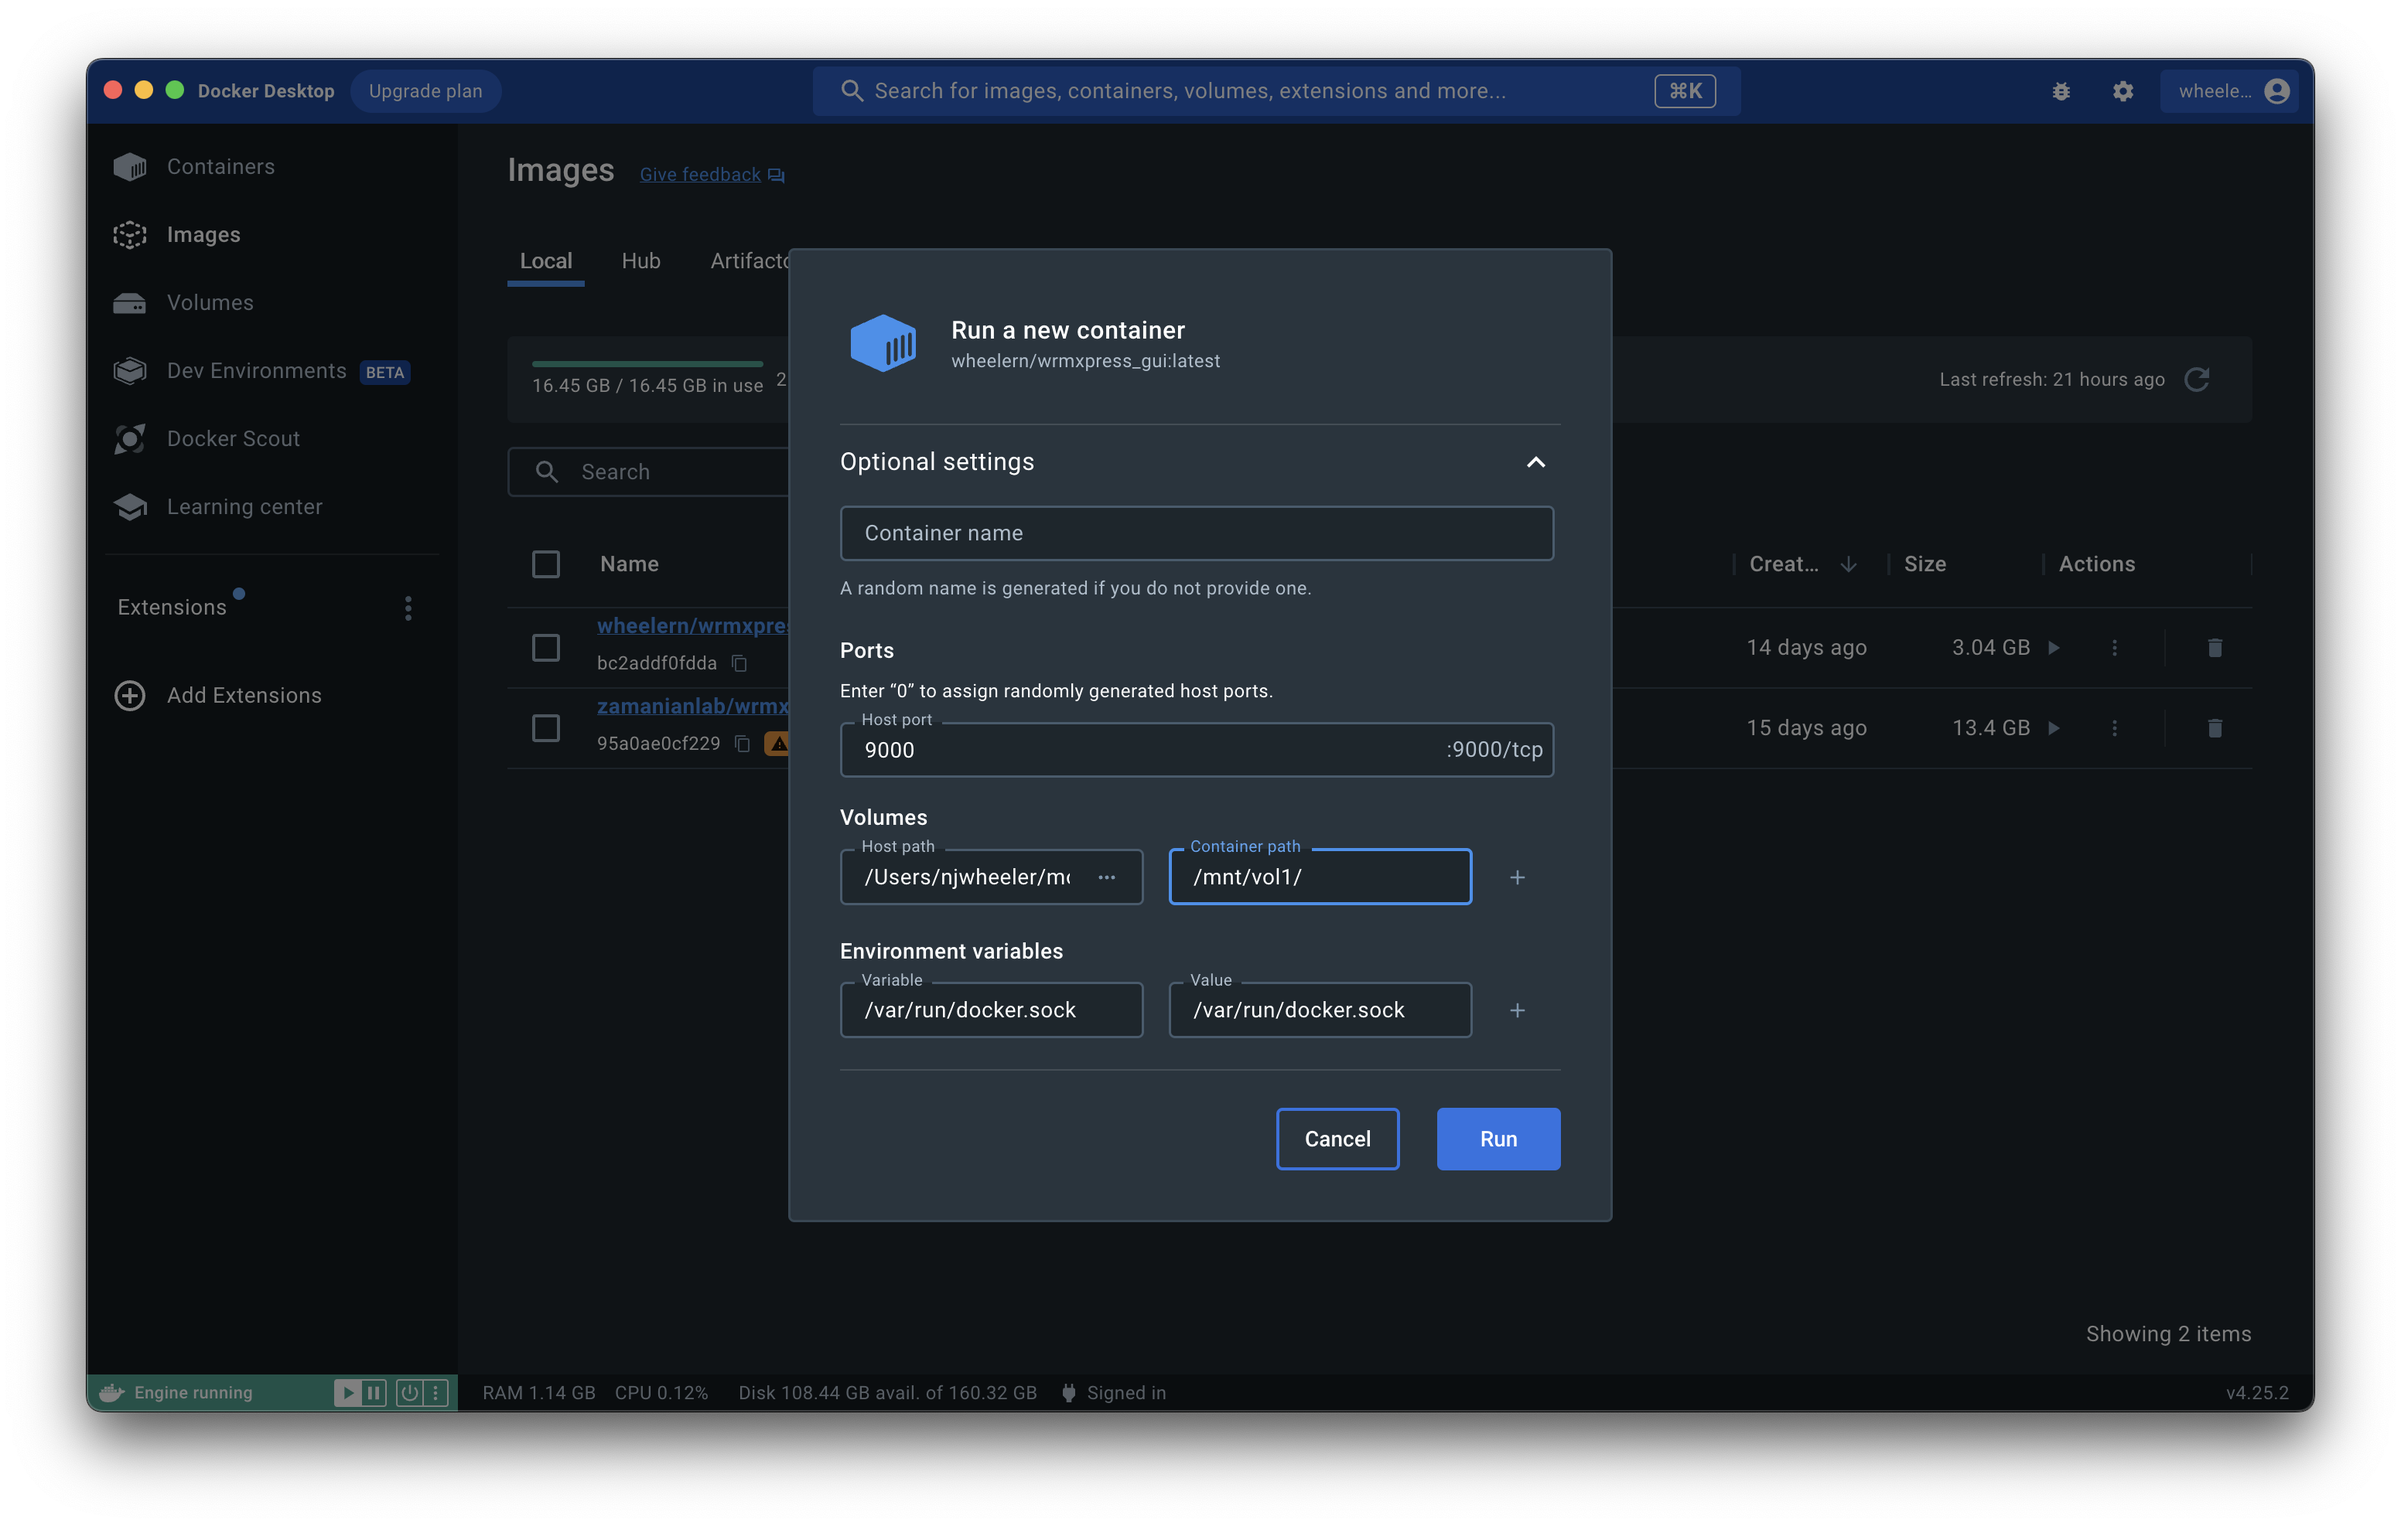
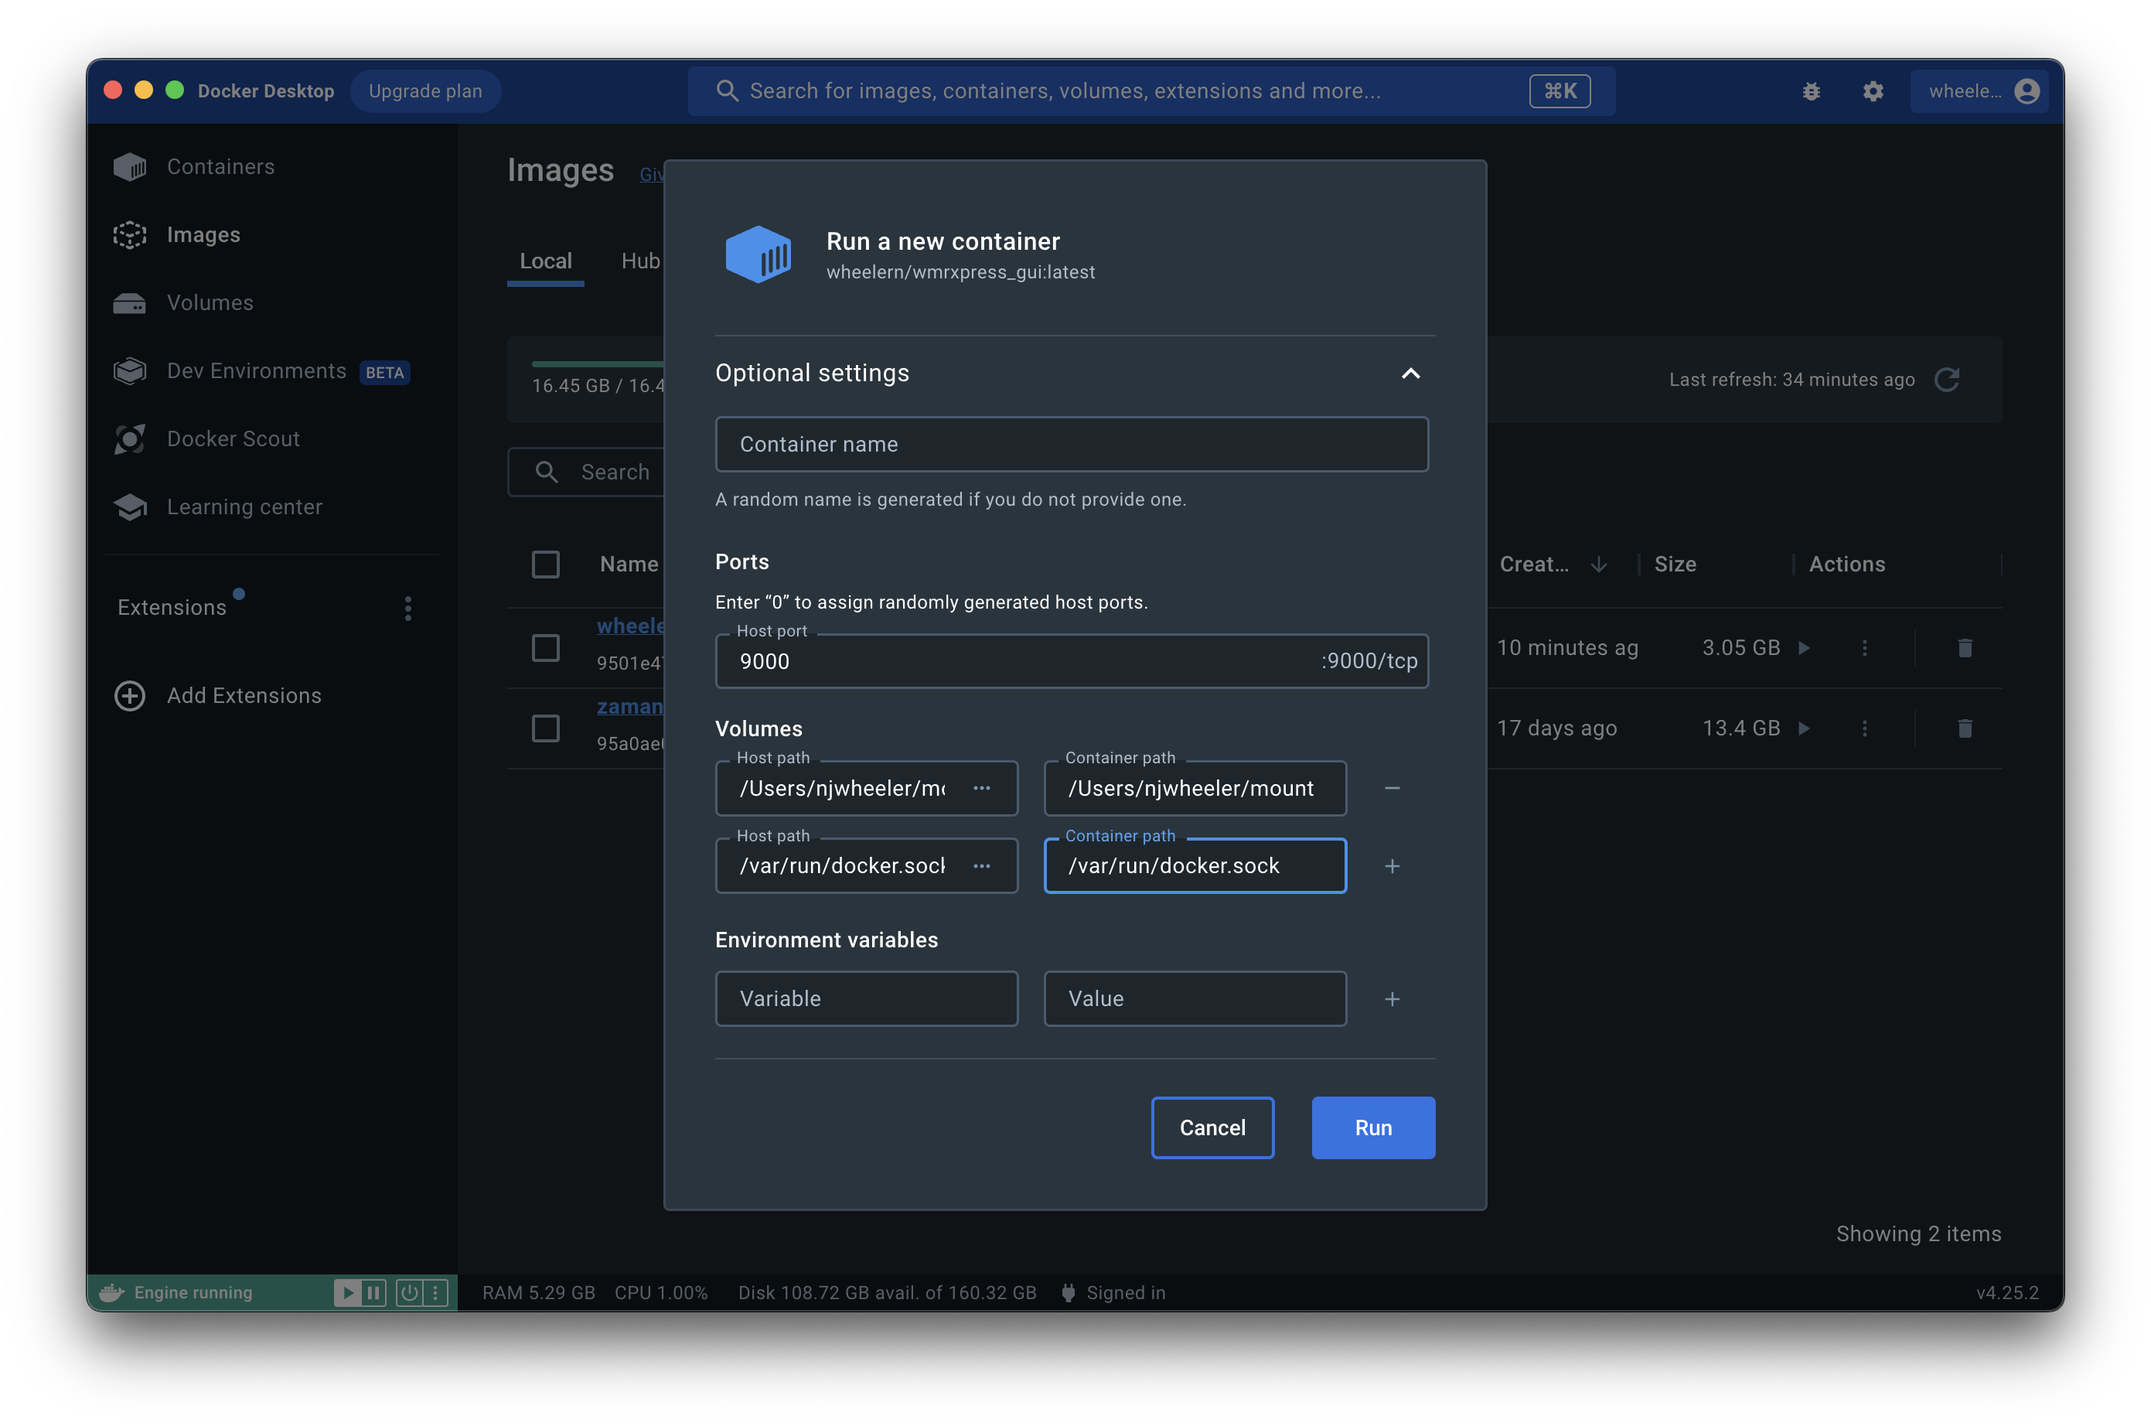
fix dockerfile and update README

diff --git a/README.md b/README.md
@@ -32,10 +32,9 @@ A Dash GUI for wrmXpress
     <img src="readme_img/dd2.png" alt="step 3" width="500" />
 
 5. Under Optional settings, make the following changes:
-   * Set the Host port to 9000
-   * Set the Host path to be the path to the working directory created in step #1 (in the example below, the Host path is `/Users/njwheeler/mount`)
-   * Set the Container path to `/mnt/vol1/`
-   * Under Environment variables, set the Variable to be `/var/run/docker.sock` and the Value to be `/var/run/docker.sock` (both should be the same)
+   * Under Ports, set the Host port to 9000
+   * Under Volumes, set the Host and Container paths to be the path to the working directory created in step #1 (in the example below, the Host path is `/Users/njwheeler/mount`)
+   * Add a new volume by clicking the + syumbol and set the Host and Container paths to `/var/run/docker.sock`
 
     <img src="readme_img/dd3.png" alt="step 3" width="500" />
 
